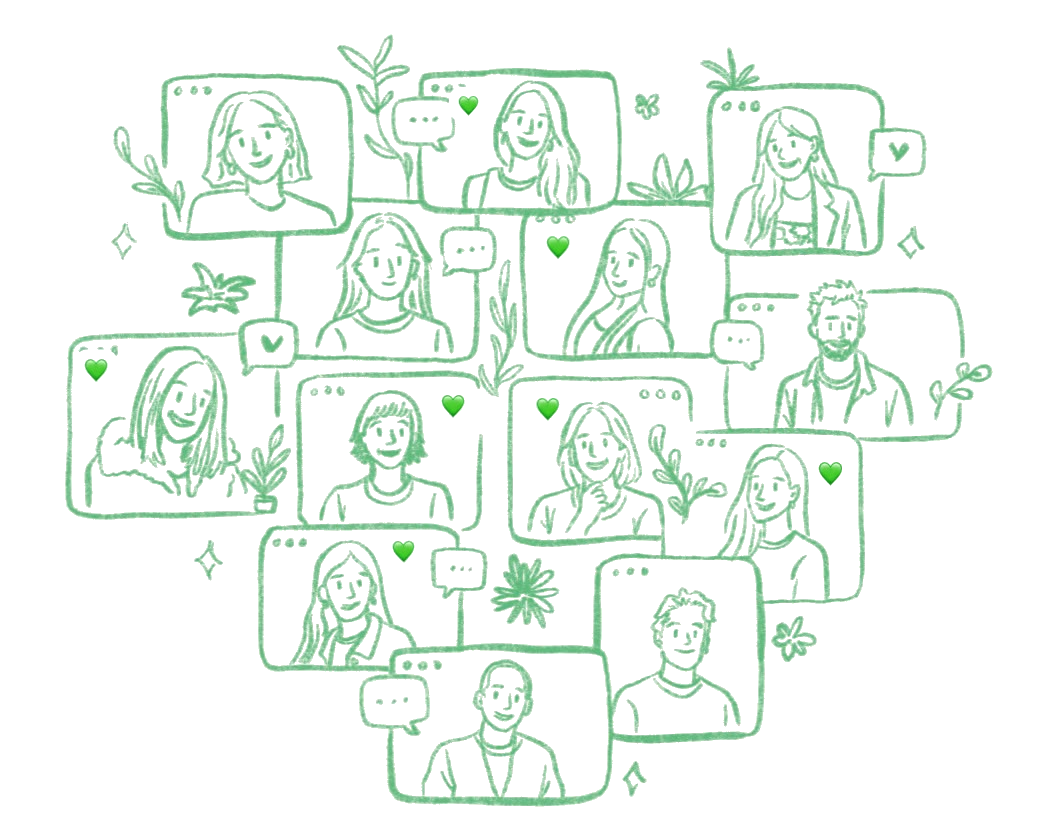
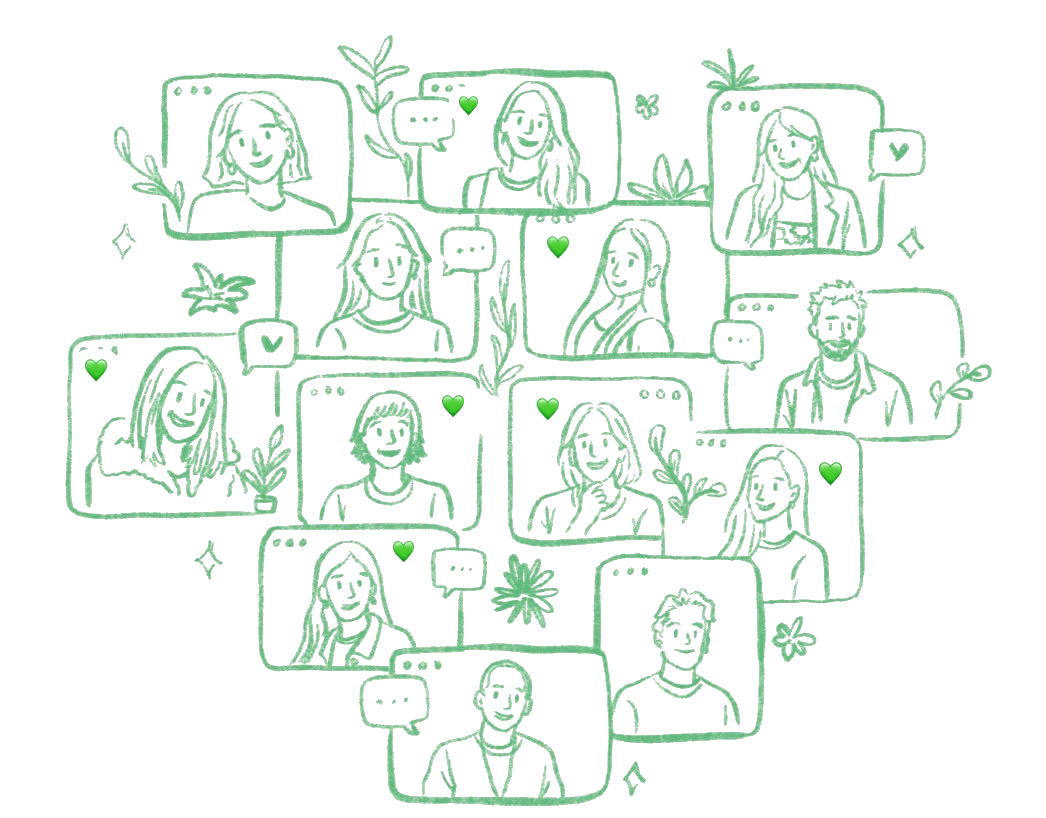
Achicar SVG del sillon para que la mesita no choque con la card, y limpiar mejor el fondo de la foto del equipo

diff --git a/app/login/page.tsx b/app/login/page.tsx
@@ -24,7 +24,7 @@ export default function LoginPage() {
       {/* Ilustración al costado izquierdo: sillón + mesita + lámpara + cuadros (verde del equipo, tipo dibujo a mano) */}
       <svg viewBox="0 0 700 560" xmlns="http://www.w3.org/2000/svg"
         className="login-illustration"
-        style={{ position: 'absolute', left: '1%', top: '50%', transform: 'translateY(-50%)', width: '44%', maxWidth: 580, height: 'auto', opacity: 1 }}>
+        style={{ position: 'absolute', left: '1%', top: '50%', transform: 'translateY(-50%)', width: '36%', maxWidth: 480, height: 'auto', opacity: 1 }}>
 
         <defs>
           {/* Filtro de textura sutil, como si fuera crayón */}